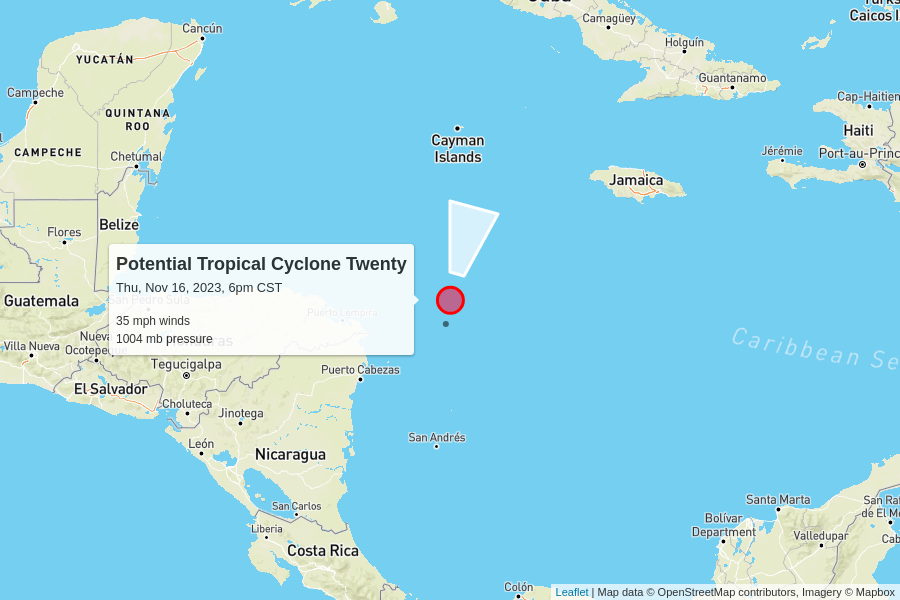
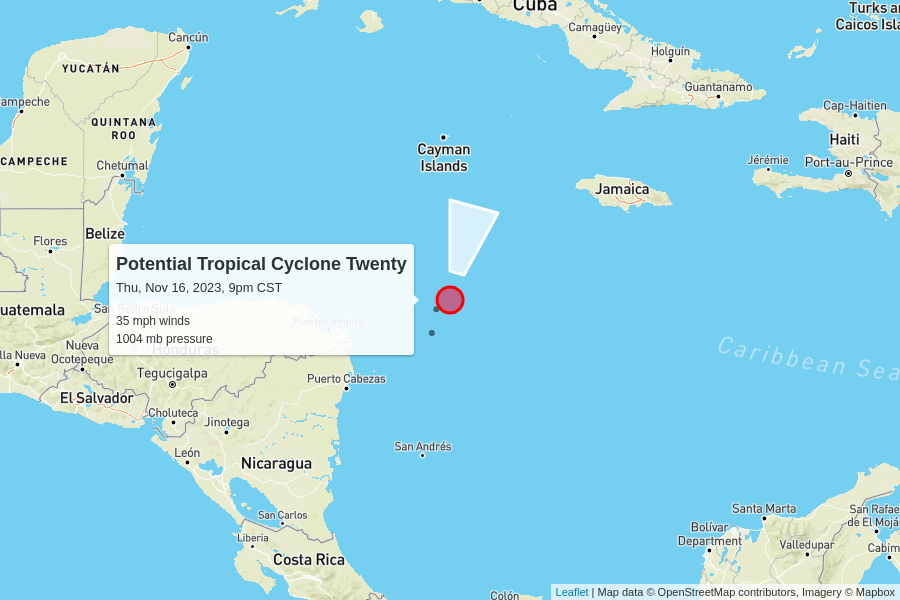
automatic update

diff --git a/docs/index.html b/docs/index.html
@@ -102,7 +102,7 @@
         <td colspan="6" class="storm category-0" >
           <h2>
             Potential Tropical Cyclone Twenty
-            <p class="updated">last updated <span data-time>2023-11-17T00:00:00.000Z</span></p>
+            <p class="updated">last updated <span data-time>2023-11-17T03:00:00.000Z</span></p>
           </h2>
         </td>
       </tr>
@@ -120,7 +120,7 @@
         <td>35 mph<br>0 mph since last update</td>
         <td>1004 mb<br>0 mb since last update</td>
         <td>
-          9 mph to the north-northeast
+          8 mph to the north-northeast
           <br/>
           <span style="display: inline-block; font-size: 1.5em; transform: rotate(15deg);">↑</span>
         </td>
